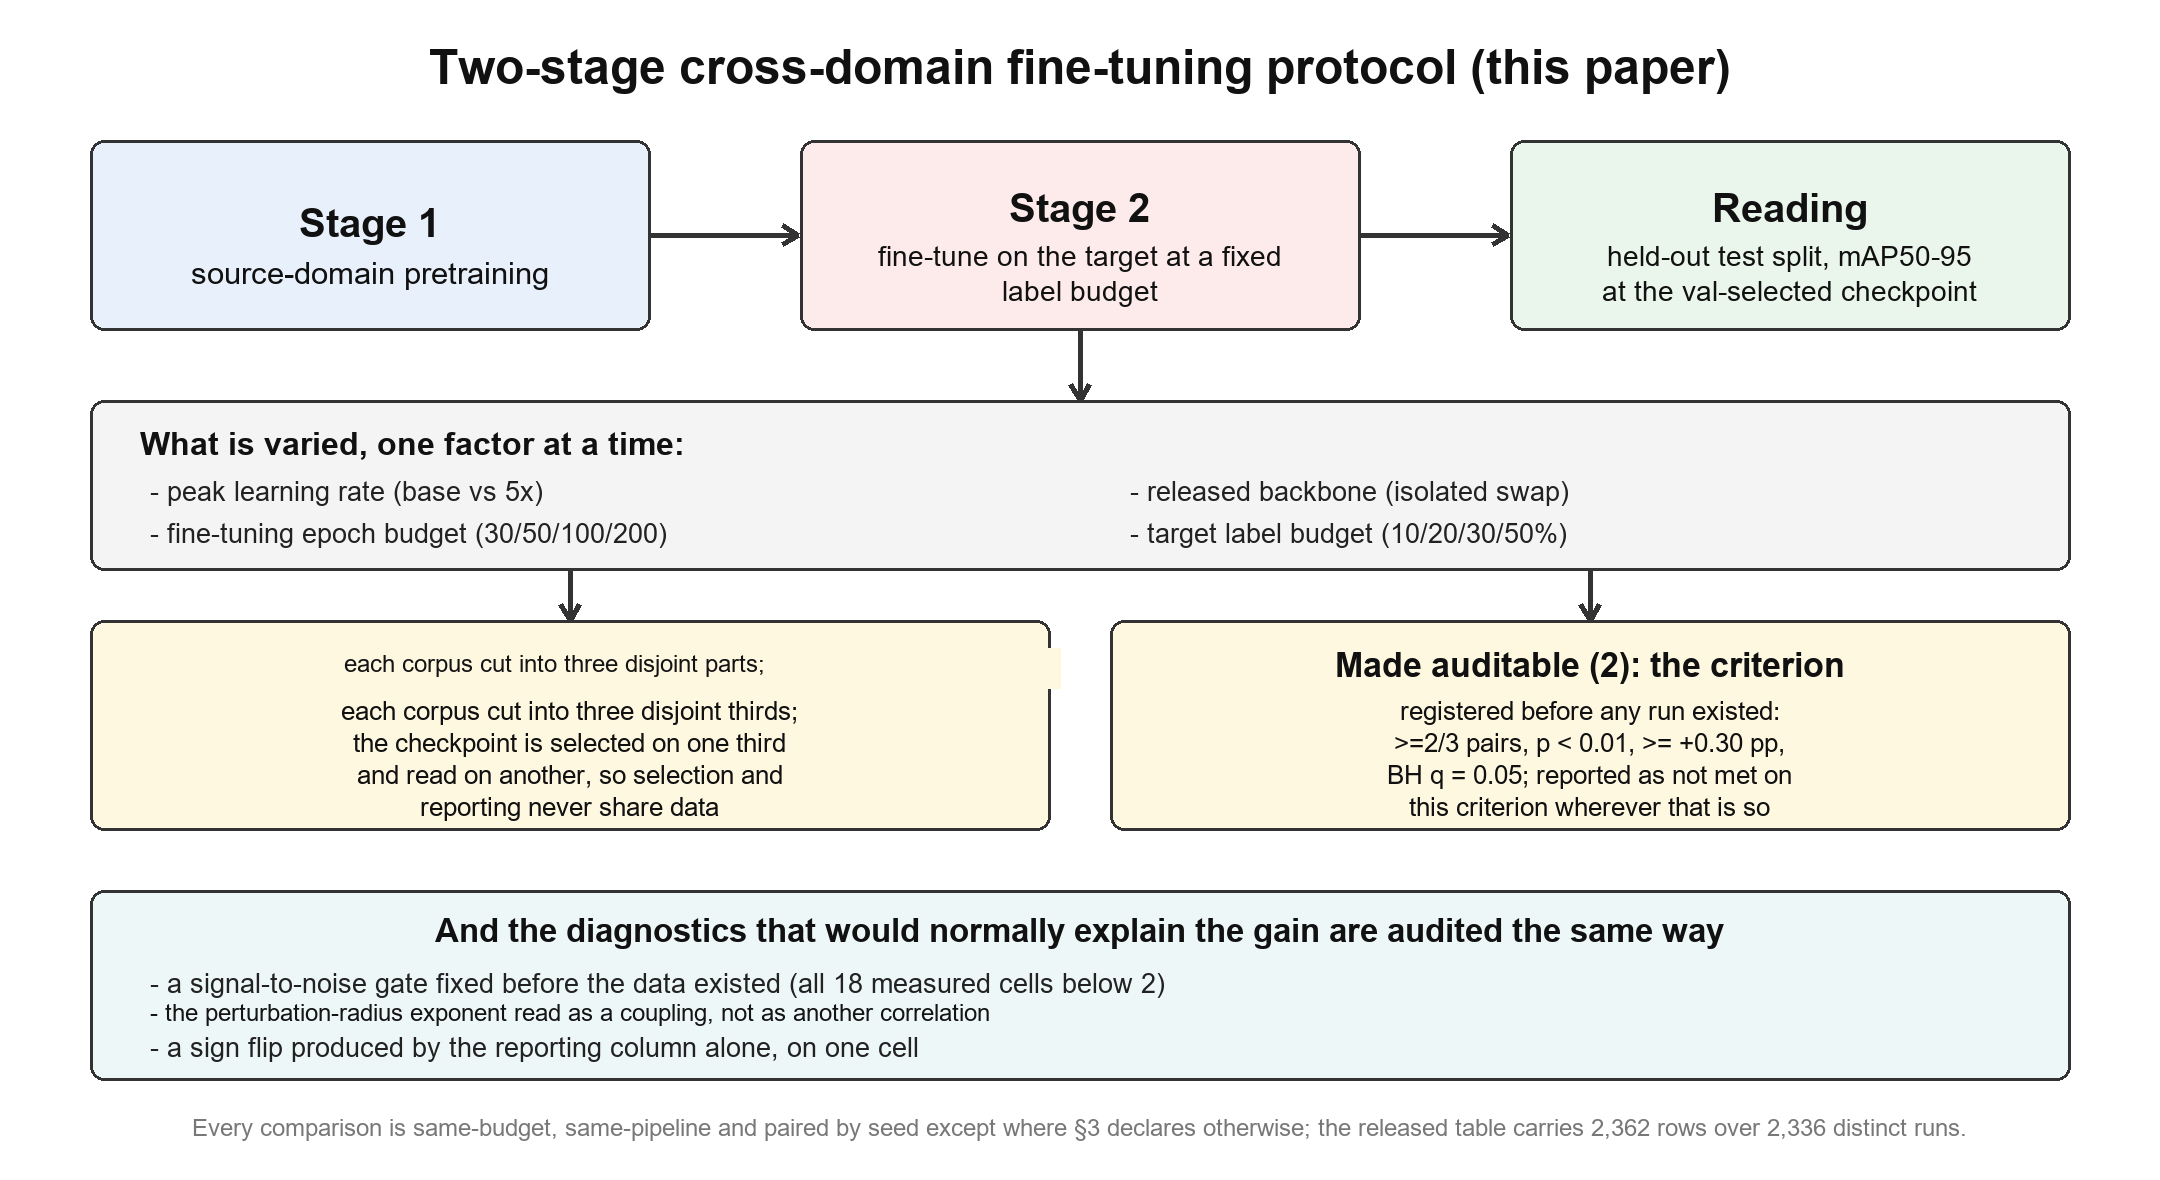
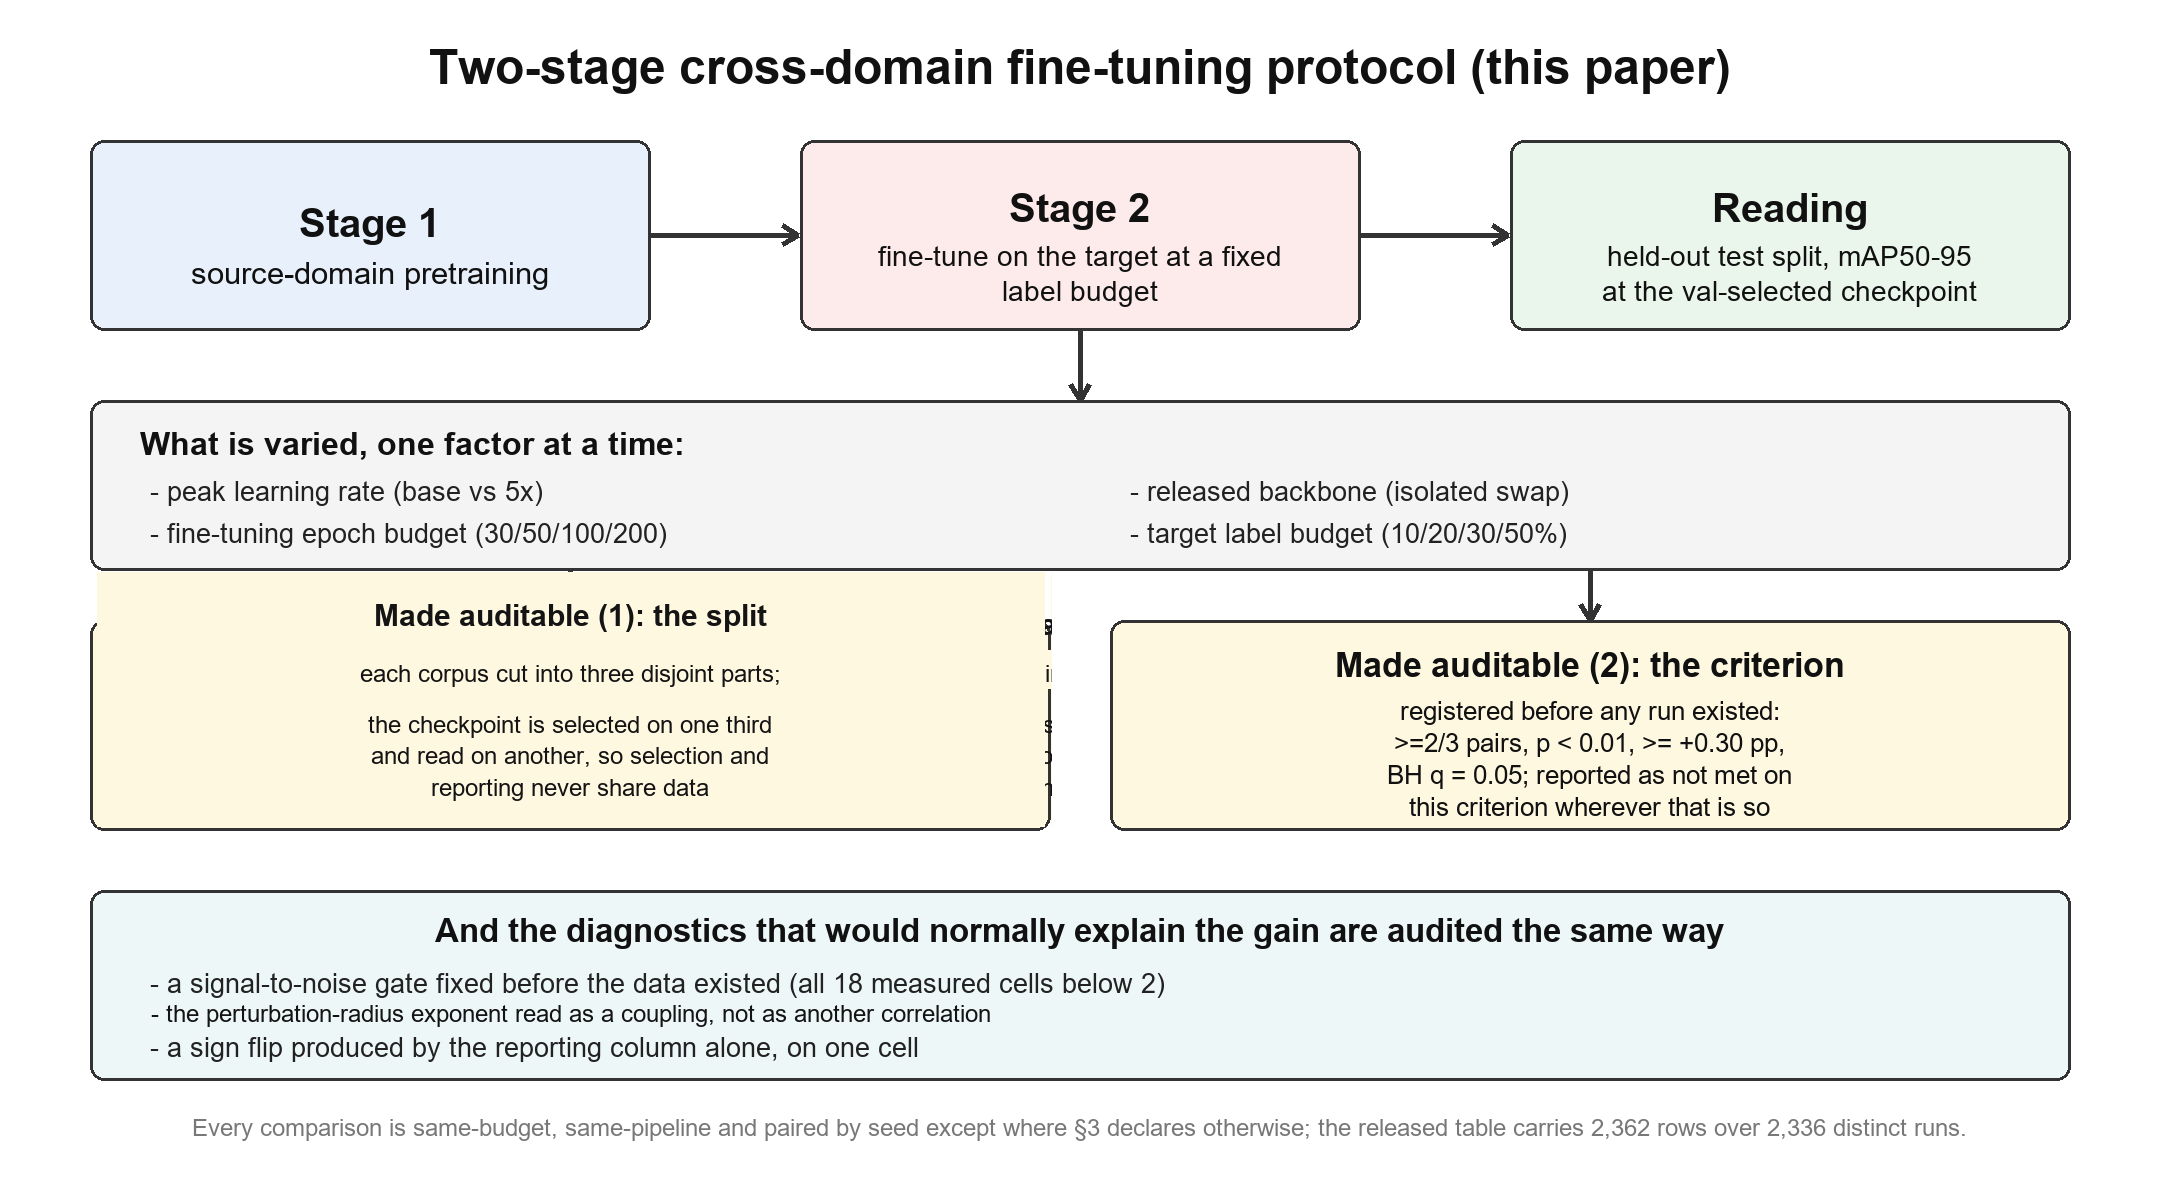
Fix the two mislabelled rows in Appendix S, and repair the figure's own text
The round-6 reviews caught two things the last round introduced:

* Appendix S's last two rows printed the 10% LEVEL readings (+2.381, +1.995)
  under a "10%->50% labels" heading, i.e. as differenced readings, which made
  the closing claim ("every reading here sits at 1.4x or more") false for the
  differenced quantities.  The two rows now say "10% level", and the actual
  differenced readings are added: +1.978 pp at 4.7x and -2.391 pp at 1.0x, so
  the closing sentence now distinguishes the levels from the differences and
  states that pcb->neu_det's differs by exactly its own MDE.

* The Fig. 1 image was edited in place last round and the edit damaged it: the
  "Made auditable (1): the split" heading was overwritten and the first line
  was duplicated ("parts" above "thirds").  Both are repaired, with the
  heading, the three lines below it and the corrected first line redrawn; the
  audit line reads "coupling" and the footnote carries the exception pointer
  and the row/distinct-run counts.

Article 35 pages; guards 8/8; manifest 415/415.

Changed region(s): [[0.031, 0.4576, 0.4963, 0.7017], [0.062, 0.8542, 0.4653, 0.8847]]

diff --git a/M3_draft/00_SUPPLEMENTARY_v0.4.md b/M3_draft/00_SUPPLEMENTARY_v0.4.md
@@ -1417,7 +1417,9 @@ not read them as mechanism.
 | §4.2 same ladder, 50 ep | smoke→sfchd / `b2` / 20% / 50 | held-out test | +2.674 | 0.267 | 10.0x |
 | §4.2 same ladder, 100 ep | smoke→sfchd / `b2` / 20% / 100 | held-out test | +1.666 | 0.200 | 8.3x |
 | §4.2 same ladder, 200 ep | smoke→sfchd / `b2` / 20% / 200 | held-out test | +1.495 | 0.252 | 5.9x |
-| §4.5 pcb→neu_det, 10%→50% labels, 100 ep | pcb→neu_det / `s2df` / 10% / 100 | held-out test | +2.381 | 1.738 | 1.4x |
-| §4.5 visdrone→dota15, 10%→50% labels, 30 ep | visdrone→dota15 / `s2ae` / 10% / 30 | held-out test | +1.995 | 0.266 | 7.5x |
+| §4.5 pcb→neu_det, 10% level, 100 ep | pcb→neu_det / `s2df` / 10% / 100 | held-out test | +2.381 | 1.738 | 1.4x |
+| §4.5 visdrone→dota15, 10% level, 30 ep | visdrone→dota15 / `s2ae` / 10% / 30 | held-out test | +1.995 | 0.266 | 7.5x |
+| §4.5 same pair, **10%→50% labels** (the differenced reading) | visdrone→dota15 / `s2ae` | held-out test | +1.978 | 0.419 | 4.7x |
+| §4.5 pcb→neu_det, **10%→50% labels** (the differenced reading) | pcb→neu_det / `s2df` | held-out test | −2.391 | 2.396 | **1.0x** |
 
-**What the table makes plain, on the rows it carries.** Every reading here sits at **1.4x or more** of its cell's own MDE, and the two §4.1 levels sit at 13-14x; the lowest ratio is §4.1's smaller reading and §4.5's `pcb→neu_det` label-axis cell, which §9 already reports as descriptions rather than as resolvable per-cell claims. The level-versus-difference distinction is visible in the columns, since §4.1's endpoint difference is not a level and its own MDE is computed on the per-seed differences.
+**What the table makes plain, on the rows it carries.** Every **level** reading here sits at **1.4x or more** of its cell’s own MDE, and the two §4.1 levels sit at 13-14x. The **differenced** label-axis readings are the exception: `pcb→neu_det`’s 10%→50% change sits at **1.0x**, i.e. exactly at its own MDE, which is why §9 reports the label-axis cells as descriptions rather than as resolvable per-cell claims, while `visdrone→dota15`’s sits at 4.7x. The level-versus-difference distinction is visible in the columns, since §4.1's endpoint difference is not a level and its own MDE is computed on the per-seed differences.

diff --git a/build/_pack_head.md b/build/_pack_head.md
@@ -12,9 +12,9 @@
   页边距 上 4.3 · 右 4.8 · 下 4.3 · 左 4.8 cm / 两端对齐 / 有页码）实测 **35 页**。
   上限 20–35 页。**两道阳性对照**：注入 600 词后官方口径页数由 **35→37**、两套版式读数不同（⇒ 版式参数生效、测量器对内容有响应）。
 - 主稿词数（同一把尺子，口径内）：**14462 词**。
-- 补充材料 1424 行、约 40006 词。**期刊明写 "Appendices are not included in the page limit"**
+- 补充材料 1426 行、约 40068 词。**期刊明写 "Appendices are not included in the page limit"**
   （Guide for Authors 第 567 行），故补材**不计入**上表页数；此数仅作记录。
-- 主稿 md5 `171790304D43A5E89383690CC379895C`；补充材料 md5 `7FEDA28454D0CE315138FFC31438C7DC`。
+- 主稿 md5 `171790304D43A5E89383690CC379895C`；补充材料 md5 `93E87AFF92713FD3A0DA4AAC68B616BF`。
 - 页数与词数的**实测冻结件**：`复现仓库\provenance\pages_probe_new\measurement.json`（其 `inputs.main_md5` 与本包主稿 md5 一致才有效）。
 
 【本稿的结构自述（静态；不含任何版本间的比较）】
